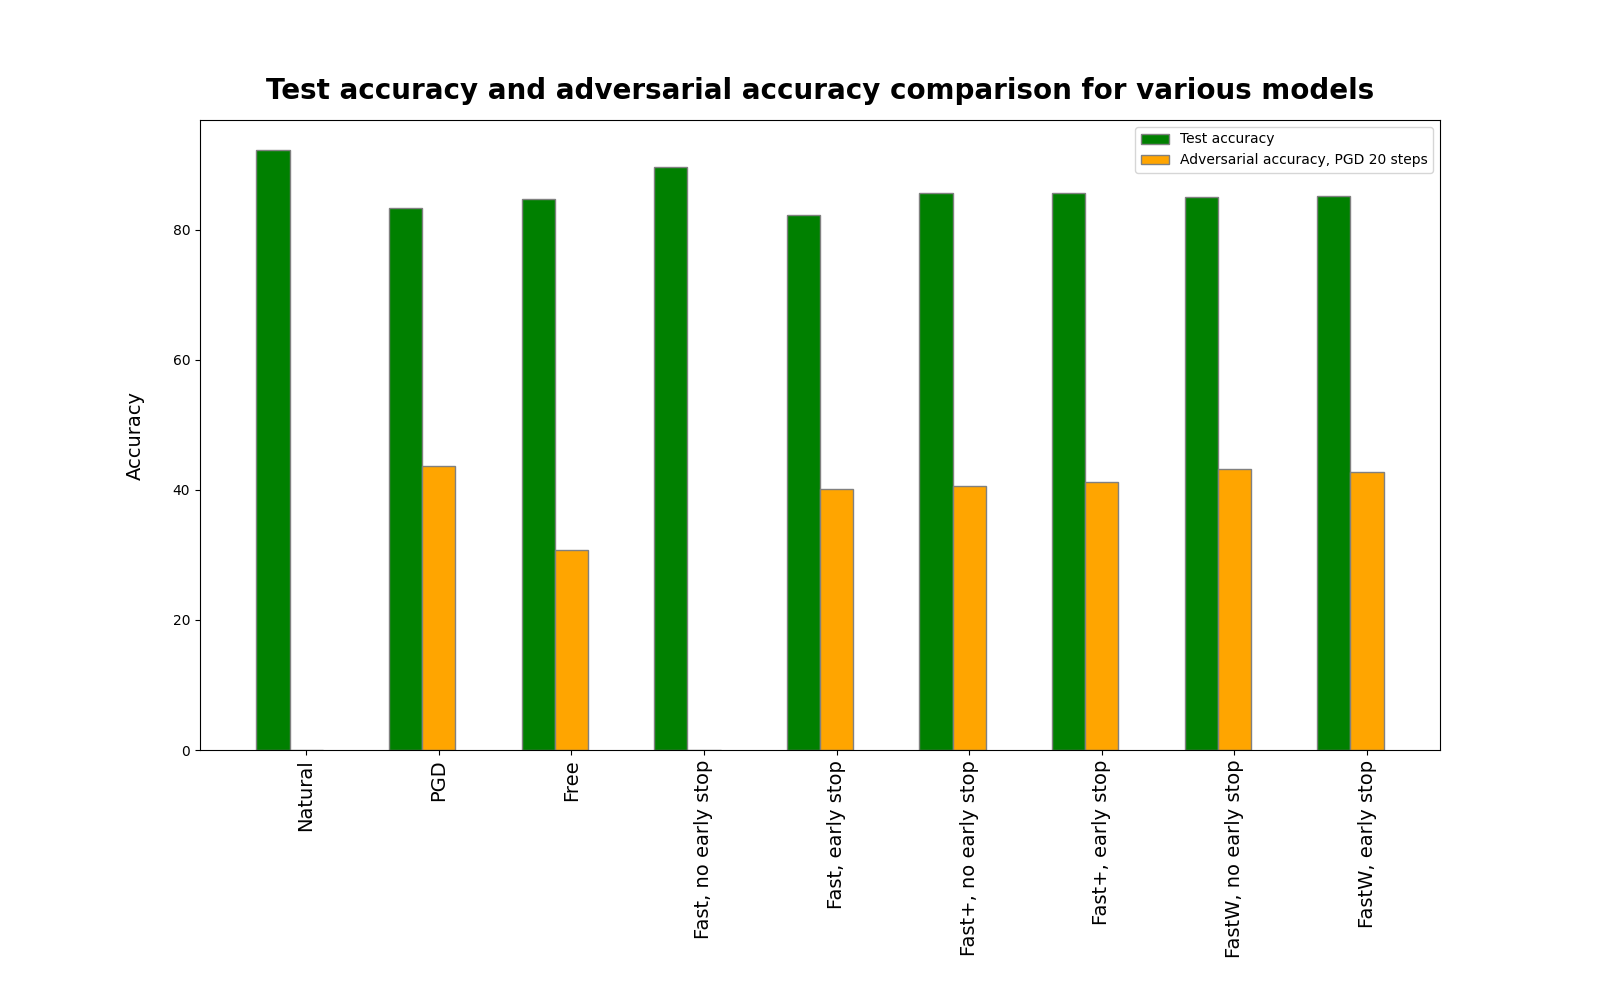
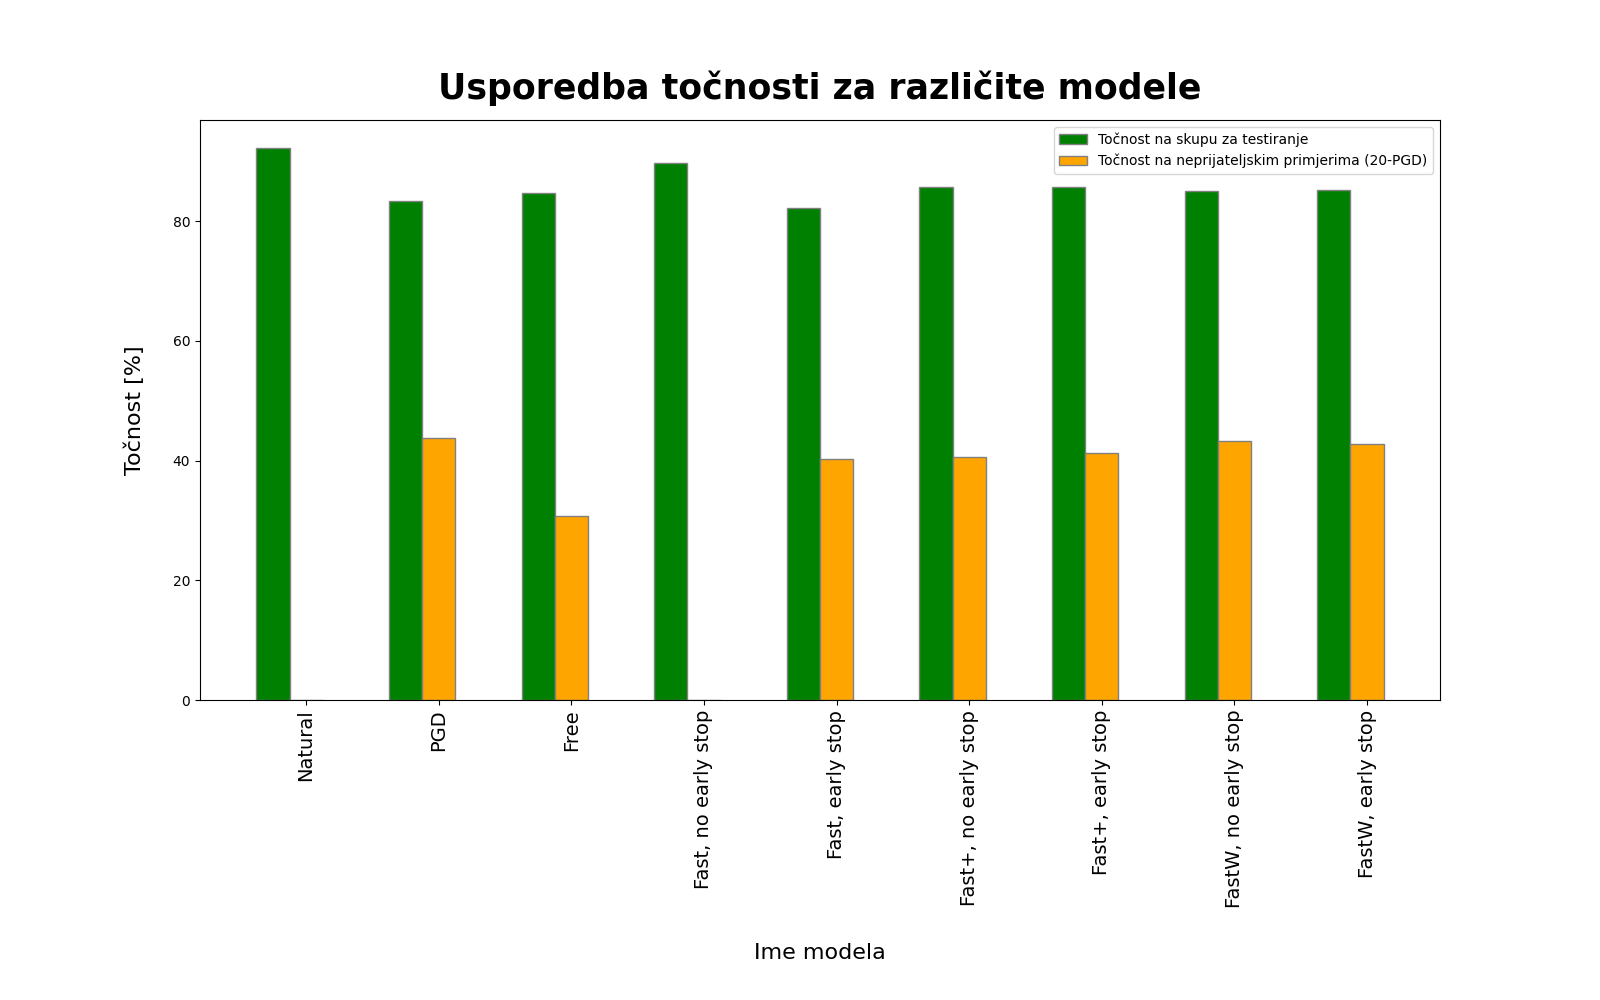
grafovi labele

diff --git a/graphing_funcs.py b/graphing_funcs.py
@@ -423,10 +423,11 @@ def show_stats(name, save_name, save=False, show=True):
     plt.bar(np.arange(len(test_accs)), test_accs, width=0.5, color="green")
     
     plt.xticks([r for r in range(len(test_accs))], names, rotation="vertical", fontsize=14)
-    plt.ylabel('Test accuracy', fontsize=14, labelpad=20)
-    plt.title("Test accuracy for various models", fontweight='bold', fontsize=20, pad=15)
+    plt.xlabel('Ime modela', fontsize=16, labelpad=25)
+    plt.ylabel('Točnost [%]', fontsize=16, labelpad=20)
+    plt.title("Točnost na skupu za testiranje za različite modele", fontweight='bold', fontsize=25, pad=15)
 
-    plt.subplots_adjust(bottom=0.25)
+    plt.subplots_adjust(bottom=0.3)
 
     if save:
         save_path = f"./stats/{save_name}_test_acc.png"
@@ -440,10 +441,11 @@ def show_stats(name, save_name, save=False, show=True):
     plt.bar(np.arange(len(adv_accs)), adv_accs, width=0.5, color="orange")
     
     plt.xticks([r for r in range(len(adv_accs))], names, rotation="vertical", fontsize=14)
-    plt.ylabel('Adversarial accuracy, PGD 20 steps', fontsize=14, labelpad=20)
-    plt.title("Adversarial accuracy for various models", fontweight='bold', fontsize=20, pad=15)
+    plt.xlabel('Ime modela', fontsize=16, labelpad=25)
+    plt.ylabel('Točnost [%]', fontsize=16, labelpad=20)
+    plt.title("Točnost na neprijateljskim primjerima (20-PGD) za različite modele", fontweight='bold', fontsize=25, pad=15)
 
-    plt.subplots_adjust(bottom=0.25)
+    plt.subplots_adjust(bottom=0.3)
 
     if save:
         save_path = f"./stats/{save_name}_adv_acc.png"
@@ -457,10 +459,11 @@ def show_stats(name, save_name, save=False, show=True):
     plt.bar(np.arange(len(train_times)), train_times, width=0.5, color="blue")
     
     plt.xticks([r for r in range(len(train_times))], names, rotation="vertical", fontsize=14)
-    plt.ylabel('Train time', fontsize=14, labelpad=20)
-    plt.title("Train time for various models", fontweight='bold', fontsize=20, pad=15)
+    plt.xlabel('Ime modela', fontsize=16, labelpad=25)
+    plt.ylabel('Vrijeme učenja [min]', fontsize=16, labelpad=20)
+    plt.title("Vrijeme učenja za različite modele", fontweight='bold', fontsize=25, pad=15)
 
-    plt.subplots_adjust(bottom=0.25)
+    plt.subplots_adjust(bottom=0.3)
 
     if save:
         save_path = f"./stats/{save_name}_train_time.png"
@@ -477,16 +480,17 @@ def show_stats(name, save_name, save=False, show=True):
     br2 = [x + barWidth for x in br1]
     
     plt.bar(br1, test_accs, color ='green', width = barWidth,
-            edgecolor ='grey', label ='Test accuracy')
+            edgecolor ='grey', label ='Točnost na skupu za testiranje')
     plt.bar(br2, adv_accs, color ='orange', width = barWidth,
-            edgecolor ='grey', label ='Adversarial accuracy, PGD 20 steps')
+            edgecolor ='grey', label ='Točnost na neprijateljskim primjerima (20-PGD)')
     
     plt.xticks([r + barWidth for r in range(len(test_accs))], names, rotation="vertical", fontsize=14)
-    plt.ylabel('Accuracy', fontsize=14, labelpad=20)
-    plt.title("Test accuracy and adversarial accuracy comparison for various models", fontweight='bold', fontsize=20, pad=15)
+    plt.xlabel('Ime modela', fontsize=16, labelpad=25)
+    plt.ylabel('Točnost [%]', fontsize=16, labelpad=20)
+    plt.title("Usporedba točnosti za različite modele", fontweight='bold', fontsize=25, pad=15)
     plt.legend()
 
-    plt.subplots_adjust(bottom=0.25)
+    plt.subplots_adjust(bottom=0.3)
     
     if save:
         save_path = f"./stats/{save_name}.png"
